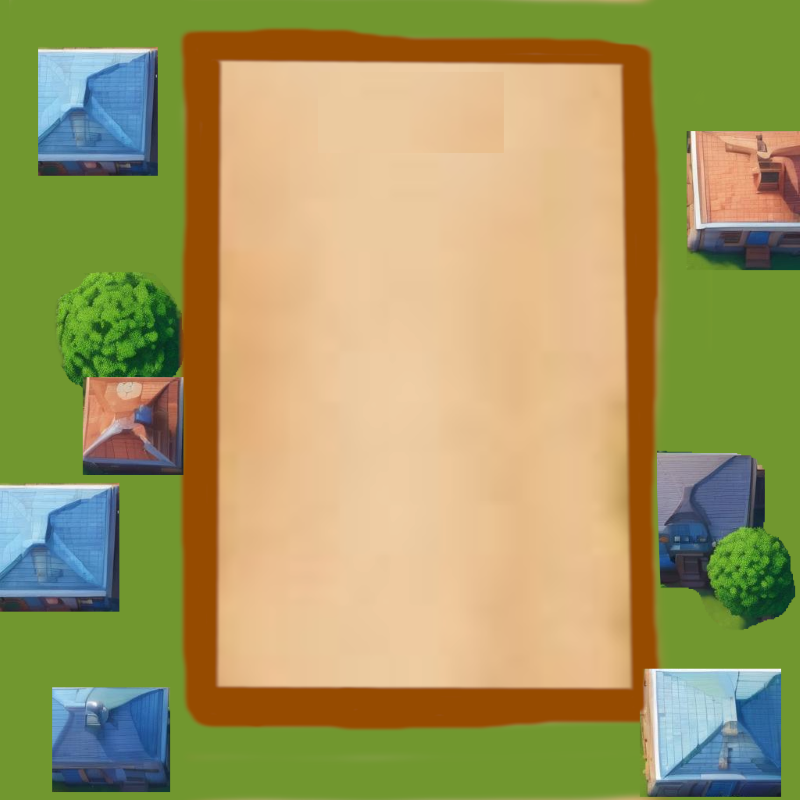
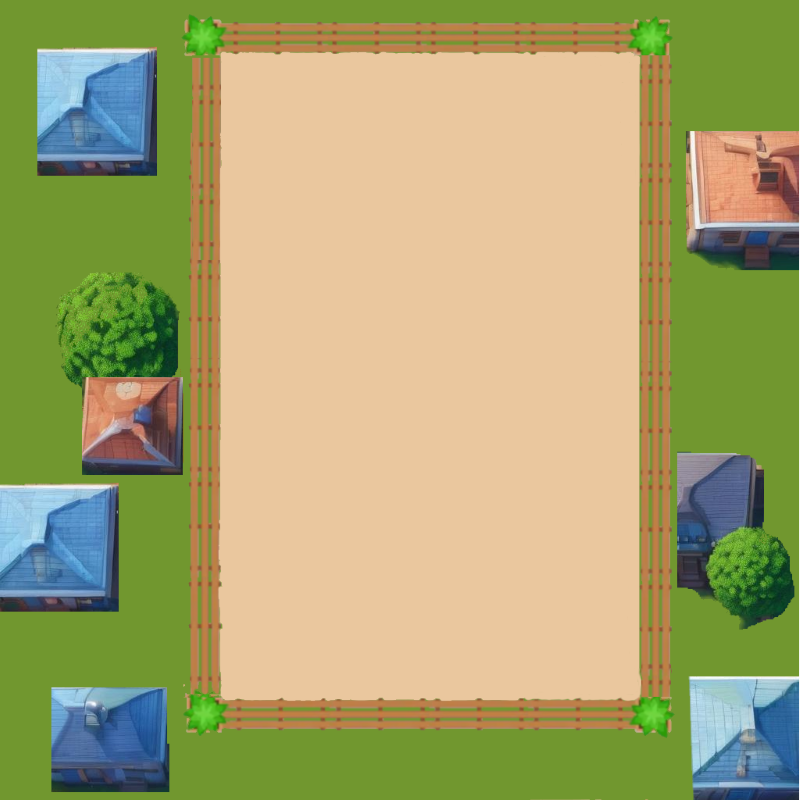
boxy, kolizje

diff --git a/main.py b/main.py
@@ -10,12 +10,23 @@ pygame.init()
 bg = pygame.image.load("background_1.png")
 player = pygame.image.load("ball.png")
 display = pygame.display.set_mode((800, 800))
+blocks = [[pygame.image.load("block.png"), 400, 300], [pygame.image.load("block.png"), 400, 500], [pygame.image.load("block.png"), 500, 200]]
 player_x = 400
 player_y = 600
 vel_x = 5
 vel_y = 5
 moving = False
 friction = 0.98
+map = 1
+
+def is_in_block(x, y):
+    '''
+        #? Funckaj przyjmuje jako argumenty player_x oraz player_y
+        #? Funkcja zwraca dystans pomiędzy tymi dwoma punktami bez zaokrąglania
+    '''
+    for block in blocks:
+        if x < block[1] + 50 and x+ 35 > block[1] and y < block[2] + 50 and y + 35 > block[2]:
+            return True
 
 def draw_objects():
     '''
@@ -24,6 +35,8 @@ def draw_objects():
     '''
     display.blit(bg, (0, 0))
     display.blit(player, (player_x, player_y))
+    for block in blocks:
+        display.blit(block[0], (block[1], block[2]))
 
     pygame.display.update()
 
@@ -93,7 +106,10 @@ while run:
         if event.type == pygame.MOUSEBUTTONUP and mouse_down and not moving:
             mouse_end = pygame.mouse.get_pos()
             dist = (int(round(get_distance(mouse_start, mouse_end), 0))/15)
-            power = dist
+            if dist > 20:
+                power = 20
+            else:
+                power = dist
             direction = get_direction(mouse_start, mouse_end)
             direction_x = direction[0]
             direction_y = direction[1]
@@ -109,20 +125,30 @@ while run:
         if power<0.1:
             moving = False
 
-    #* Granice pola golfowego 
-    if player_x<220:
-        direction_x*=-1
-        player_x = 220
-    if player_x>595:
-        direction_x*=-1
-        player_x = 595
-    if player_y<63:
-        direction_y*=-1
-        player_y = 63
-    if player_y>652:
-        direction_y*=-1
-        player_y = 652
+    #* Granice pola golfowego (średniowiecze)
+    if map == 1:
+        if player_x<220:
+            direction_x*=-1
+            player_x = 220
+        if player_x>603:
+            direction_x*=-1
+            player_x = 603
+        if player_y<55:
+            direction_y*=-1
+            player_y = 55
+        if player_y>664:
+            direction_y*=-1
+            player_y = 664
+    else:
+        #todo: Tutaj będą granice pola golfowego dla mapy cyberpunkowej
+        pass
 
+    #* Kolizje z blokami postawionymi na mapie
+    if moving and is_in_block(player_x + direction_x*power, player_y):
+        direction_x *=-1
+    if moving and is_in_block(player_x, player_y + direction_y*power):
+        direction_y *=-1
+        
     draw_objects()
 
 pygame.quit()
